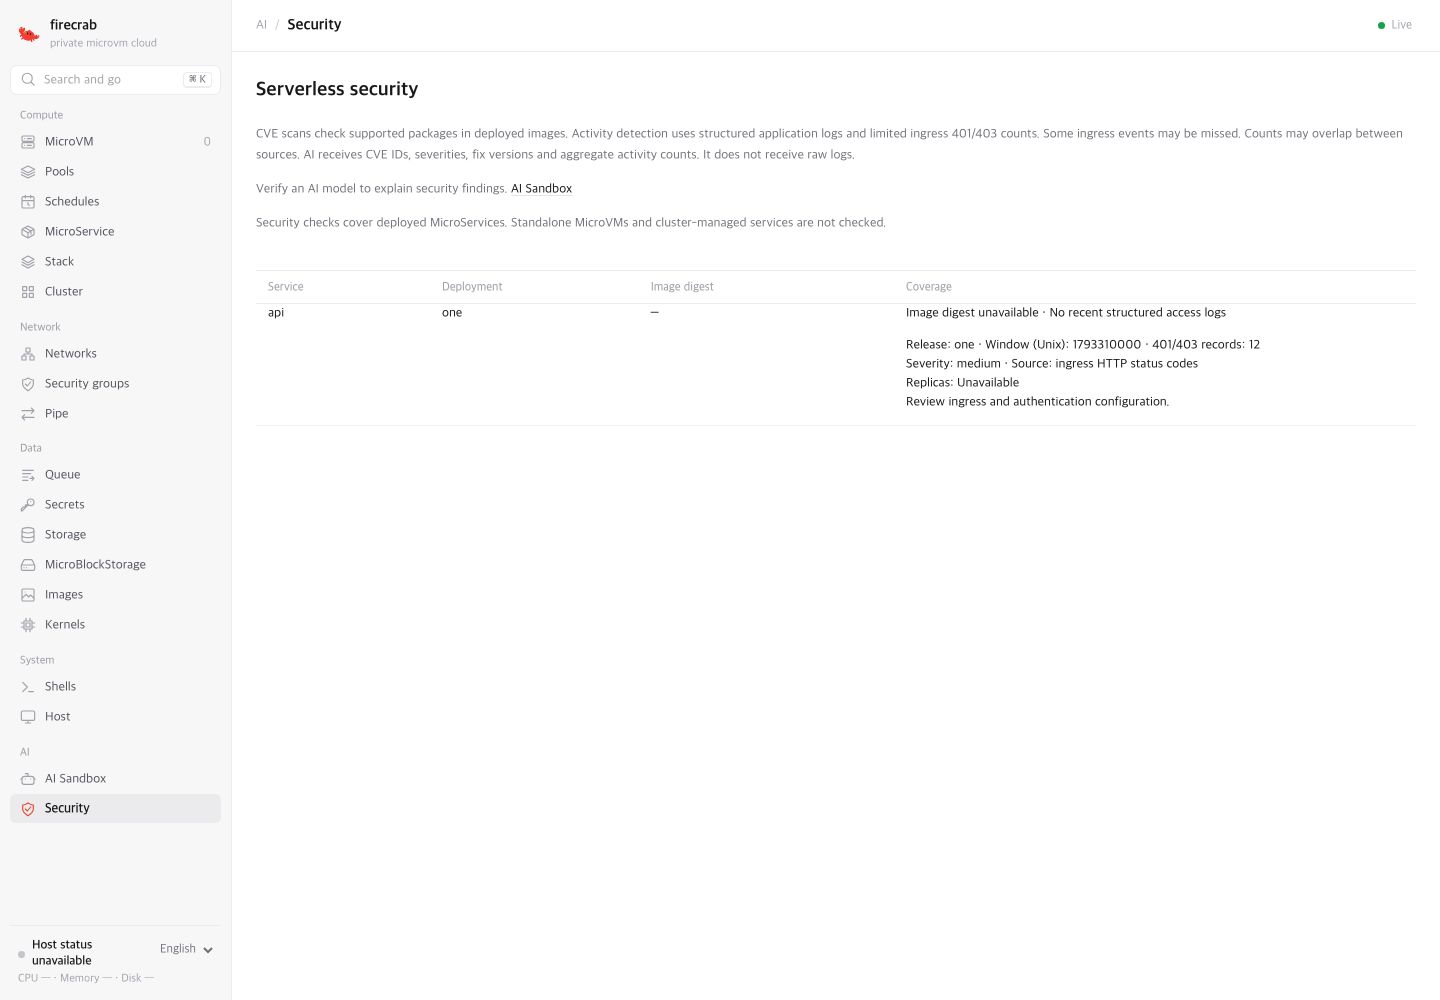
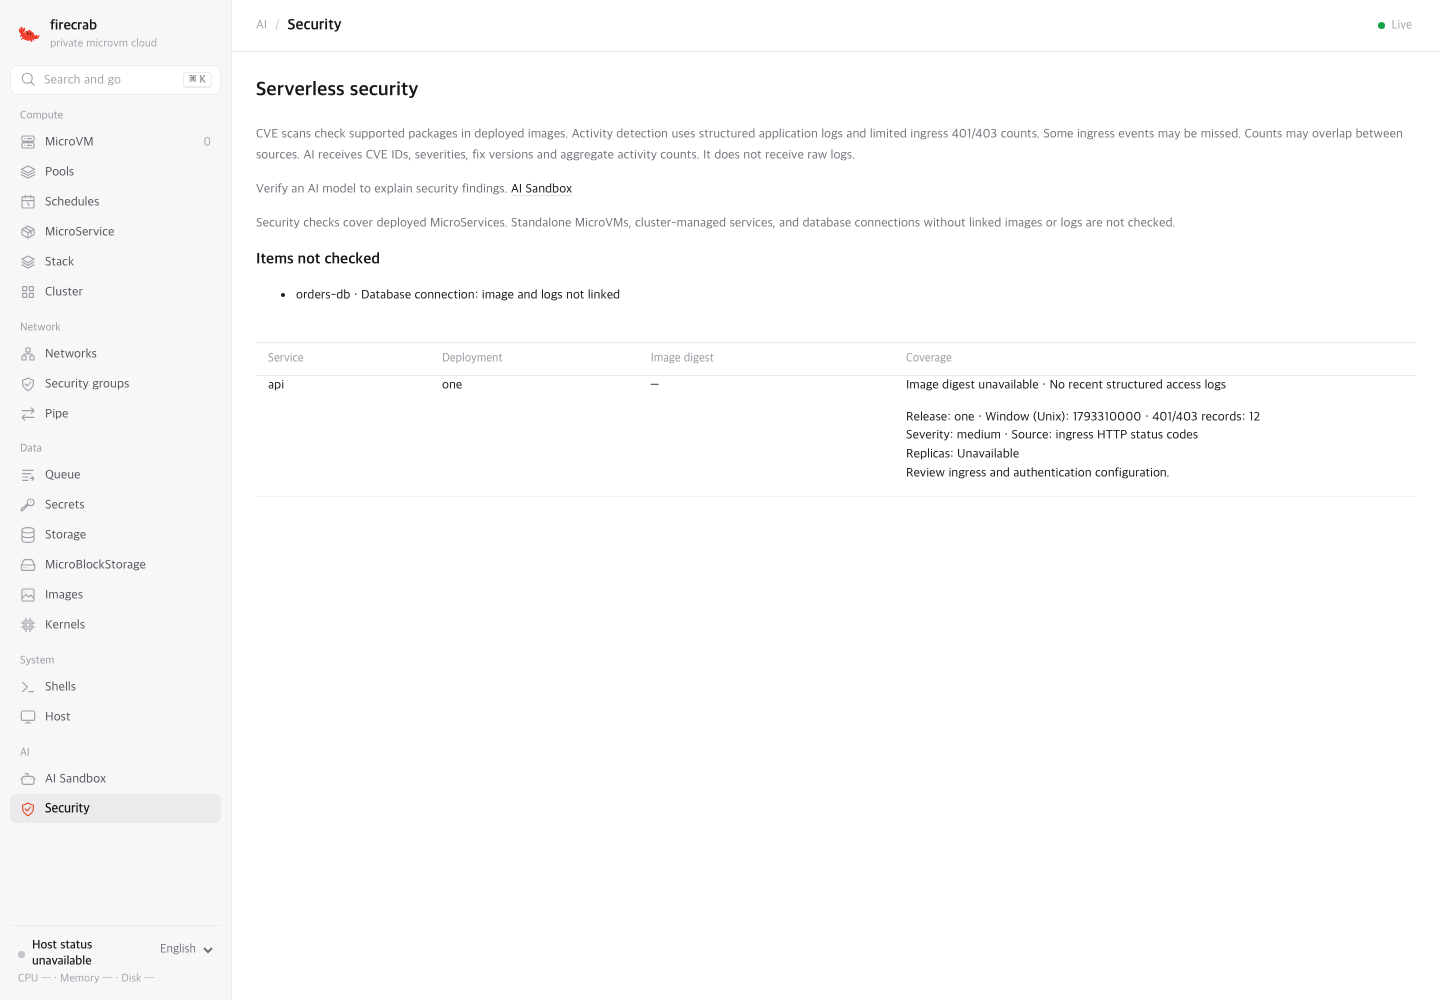
feat: show unchecked database connections

diff --git a/firecrab-e2e/tests/service-security.spec.ts b/firecrab-e2e/tests/service-security.spec.ts
@@ -100,18 +100,19 @@ test("Security queues a manual CVE rescan", async ({ page }) => {
 
 test("Security identifies workloads outside its coverage", async ({ page }) => {
   await openDashboard(page, { hash: "#/security", routes: { "/api/service-security": {
-    services: [], unsupportedWorkloads: [{ id:"cluster-id", name:"cluster-service", reason:"cluster_managed" }]
+    services: [], unsupportedWorkloads: [{ id:"cluster-id", name:"cluster-service", reason:"cluster_managed" }, { id:"db-id", name:"orders-db", reason:"database_connection_unlinked" }]
   } } });
-  await expect(page.getByText(/Standalone MicroVMs and cluster-managed services are not checked/)).toBeVisible();
-  await expect(page.getByRole("heading", { name:"Local workloads not checked" })).toBeVisible();
+  await expect(page.getByText(/Standalone MicroVMs, cluster-managed services, and database connections without linked images or logs are not checked/)).toBeVisible();
+  await expect(page.getByRole("heading", { name:"Items not checked" })).toBeVisible();
   await expect(page.getByText("cluster-service · Cluster-managed service")).toBeVisible();
+  await expect(page.getByText("orders-db · Database connection: image and logs not linked")).toBeVisible();
 });
 
 
 test("Security explains limited ingress coverage and detected loss", async ({ page }) => {
   if (process.env.SECURITY_INGRESS_SCREENSHOT) await page.setViewportSize({ width: 1440, height: 1000 });
   await openDashboard(page, { hash: "#/security", routes: { "/api/service-security": {
-    services: [{ id:"a", name:"api", deploymentId:"one", digest:null, sampledRecords:0, signals:[], activityHistory:[{ deploymentId:"one", replicaIds:[], bucketStart:1793310000, count:12, severity:"medium", source:"ingress HTTP status codes", recommendation:"Review ingress and authentication configuration." }] }], ingressLogs:"limited"
+    services: [{ id:"a", name:"api", deploymentId:"one", digest:null, sampledRecords:0, signals:[], activityHistory:[{ deploymentId:"one", replicaIds:[], bucketStart:1793310000, count:12, severity:"medium", source:"ingress HTTP status codes", recommendation:"Review ingress and authentication configuration." }] }], unsupportedWorkloads:[{ id:"db-id", name:"orders-db", reason:"database_connection_unlinked" }], ingressLogs:"limited"
   } } });
   await expect(page.getByText(/limited ingress 401\/403 counts/)).toBeVisible();
   await expect(page.getByText(/ingress HTTP status codes/)).toBeVisible();

diff --git a/firecrab-api/src/service_security.rs b/firecrab-api/src/service_security.rs
@@ -141,6 +141,13 @@ pub(crate) async fn get(
                 });
             }
         }
+        for (id, name) in store.pipe_database_security_names()? {
+            unsupported_workloads.push(UnsupportedWorkload {
+                id,
+                name,
+                reason: "database_connection_unlinked",
+            });
+        }
         Ok((services, unsupported_workloads))
     })
     .await?;
@@ -331,6 +338,14 @@ mod tests {
                 [unsupported_id.to_string()],
             )
             .unwrap();
+        let database_id = Uuid::new_v4();
+        let database: crate::pipe_databases::DatabaseInput = serde_json::from_value(json!({
+            "name":"orders-db", "provider":"local", "uri":"postgres://db-user:private-db-secret@private-db-host/orders"
+        })).unwrap();
+        state
+            .store
+            .save_pipe_database(database_id, &database)
+            .unwrap();
         let deployment: MicroServiceDeployment = serde_json::from_value(json!({
             "id": deployment_id, "serviceId": service_id, "phase": "running", "spec": spec,
             "request": {"hostPort": 0}, "digest": "sha256:1234", "instances": [], "log": [], "error": null
@@ -390,6 +405,17 @@ mod tests {
             result["unsupportedWorkloads"][0]["reason"],
             "cluster_managed"
         );
+        assert_eq!(
+            result["unsupportedWorkloads"][1]["id"],
+            database_id.to_string()
+        );
+        assert_eq!(result["unsupportedWorkloads"][1]["name"], "orders-db");
+        assert_eq!(
+            result["unsupportedWorkloads"][1]["reason"],
+            "database_connection_unlinked"
+        );
+        assert!(!result.to_string().contains("private-db-secret"));
+        assert!(!result.to_string().contains("private-db-host"));
         assert!(!result.to_string().contains("cluster-secret"));
         assert!(!result.to_string().contains("secret-value"));
         assert_eq!(result["cveScan"], "scheduled");

diff --git a/firecrab-frontend/src/render.rs b/firecrab-frontend/src/render.rs
@@ -4268,21 +4268,22 @@ fn service_security(app: &App) -> String {
         out.push_str("</select>");
     }
     out.push_str(&format!("<p>{}</p>", tr(app,
-        "Security checks cover deployed MicroServices. Standalone MicroVMs and cluster-managed services are not checked.",
-        "보안 검사는 배포된 마이크로서비스를 확인한다. 단독 마이크로VM과 클러스터 관리 서비스는 검사하지 않는다.")));
+        "Security checks cover deployed MicroServices. Standalone MicroVMs, cluster-managed services, and database connections without linked images or logs are not checked.",
+        "보안 검사는 배포된 마이크로서비스를 확인한다. 단독 마이크로VM, 클러스터 관리 서비스, 이미지나 로그가 연결되지 않은 데이터베이스 연결은 검사하지 않는다.")));
     let unsupported = list(&app.resource["unsupportedWorkloads"]);
     if !unsupported.is_empty() {
         out.push_str(&format!(
             "<h3>{}</h3><ul>",
-            tr(
-                app,
-                "Local workloads not checked",
-                "검사하지 않는 로컬 워크로드"
-            )
+            tr(app, "Items not checked", "검사하지 않는 항목")
         ));
         for workload in unsupported {
             let reason = match text(workload, "reason") {
                 "cluster_managed" => tr(app, "Cluster-managed service", "클러스터 관리 서비스"),
+                "database_connection_unlinked" => tr(
+                    app,
+                    "Database connection: image and logs not linked",
+                    "데이터베이스 연결: 이미지와 로그가 연결되지 않음",
+                ),
                 _ => tr(app, "Unsupported workload", "지원하지 않는 워크로드"),
             };
             out.push_str(&format!(

diff --git a/firecrab-api/src/persistence/pipe_databases.rs b/firecrab-api/src/persistence/pipe_databases.rs
@@ -38,6 +38,28 @@ impl Store {
         .collect()
     }
 
+    /// Return only identifiers and names for security coverage; never load connection URIs.
+    pub(crate) fn pipe_database_security_names(
+        &self,
+    ) -> Result<Vec<(Uuid, String)>, PersistenceError> {
+        let conn = self.lock();
+        let mut statement = conn.prepare(
+            "SELECT id, json_extract(spec, '$.name') FROM pipe_databases ORDER BY rowid",
+        )?;
+        let rows = statement.query_map([], |row| {
+            Ok((row.get::<_, String>(0)?, row.get::<_, String>(1)?))
+        })?;
+        rows.map(|row| {
+            let (id, name) = row?;
+            let parsed = Uuid::parse_str(&id).map_err(|_| PersistenceError::CorruptRecord {
+                id,
+                reason: "invalid database identifier".into(),
+            })?;
+            Ok((parsed, name))
+        })
+        .collect()
+    }
+
     /// Load one connection input, returning None when the identifier is unknown.
     pub fn pipe_database(&self, id: Uuid) -> Result<Option<DatabaseRecord>, PersistenceError> {
         let row: Option<(String, String)> = self

diff --git a/public-docs/guides/service-security.md b/public-docs/guides/service-security.md
@@ -1,6 +1,6 @@
 # Serverless service security
 
-The Security page under AI shows findings for deployed MicroServices. Access is restricted to the operator. Standalone MicroVMs and cluster-managed services are not scanned. The API and page list locally registered cluster-managed services excluded from security checks.
+The Security page under AI shows findings for deployed MicroServices. Access is restricted to the operator. Standalone MicroVMs and cluster-managed services are not scanned. The API and page list locally registered cluster-managed services excluded from security checks. Saved Pipe database connections do not link an image or service logs, so the connection itself is shown as not checked. If the database also runs as a supported MicroService, its service deployment is listed separately.
 
 ## CVE scanning
 
